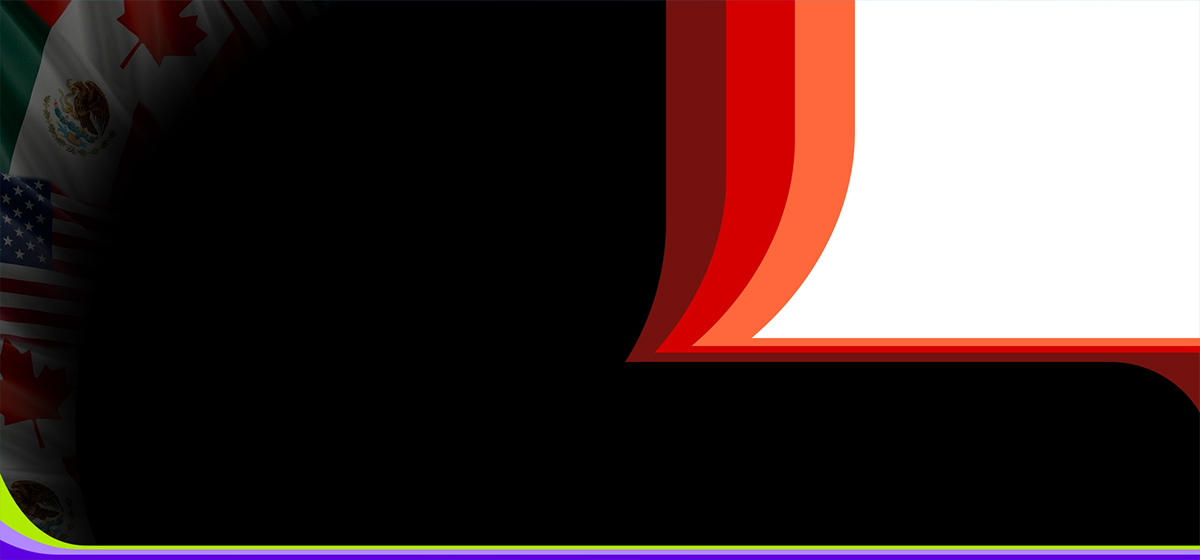
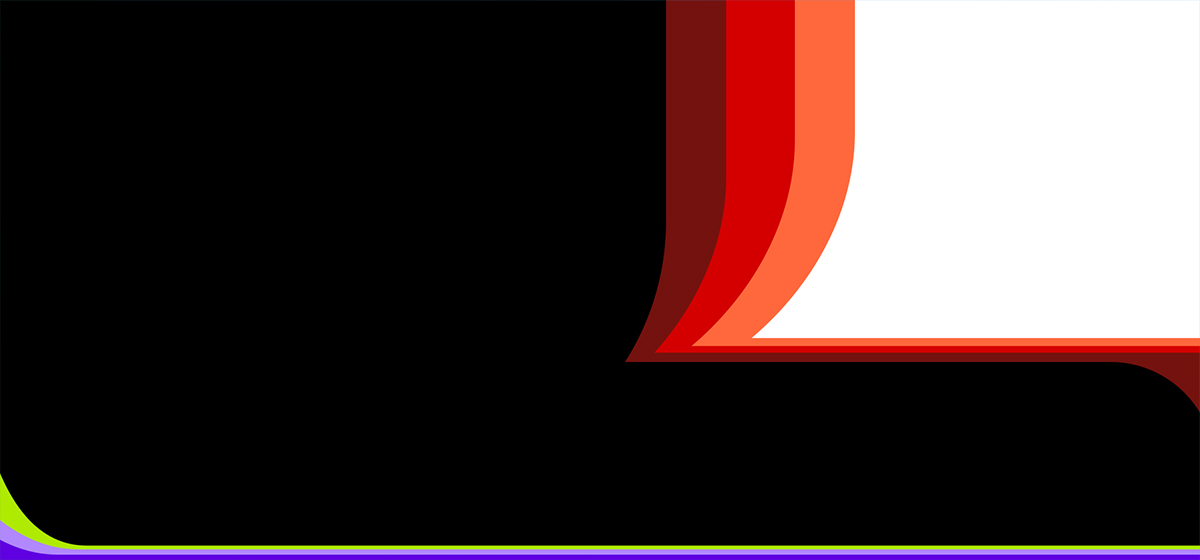
UI: подтабы ЧМ блоками, флаги отдельным слоем, сплэш без мяча
- ЧМ: подтабы упакованы в отдельные блоки (белые с чёрным текстом,
  активный — жёлтый), чтобы читались и на белой, и на чёрной части хедера
  при любой ширине устройства.
- Хедер: флаги хозяев вынесены отдельным слоем (banner-flags.png), жёстко
  прибиты к верхнему-левому углу, высота = высоте баннера (auto 100%).
  Основной арт header-banner.jpg обновлён (без флагов). Теперь при cover-
  обрезке на узких экранах флаги не пропадают.
- Splash: убран крутящийся мяч, осталось мерцающее 'Загрузка' + лого.

Changed region(s): [[0.0, 0.0, 0.2158, 0.9714]]

diff --git a/src/pages/WorldCup.jsx b/src/pages/WorldCup.jsx
@@ -51,23 +51,27 @@ export default function WorldCup({ initialSub = 'groups', onSubChange }) {
           </div>
           <div className="text-4xl mb-1">🌐</div>
         </div>
-        <div className="flex overflow-x-auto no-scrollbar px-2 mt-2" style={{ scrollbarWidth: 'none' }}>
-          {SUB_TABS.map((t) => (
-            <button
-              key={t.id}
-              onClick={() => handleSub(t.id)}
-              className="flex-shrink-0 px-4 py-3 text-[11px] font-bold uppercase tracking-wide relative whitespace-nowrap"
-              style={{ color: sub === t.id ? '#C9A800' : 'rgba(255,255,255,0.8)' }}
-            >
-              {t.label}
-              {sub === t.id && (
-                <span
-                  className="absolute bottom-0 left-1/2 -translate-x-1/2 h-0.5 rounded-t-full"
-                  style={{ width: '70%', background: '#C9A800' }}
-                />
-              )}
-            </button>
-          ))}
+        {/* Каждый подтаб — свой блок, чтобы читался и на белой, и на чёрной части
+            хедера. Активный — жёлтый с белым текстом, остальные — белые с чёрным. */}
+        <div className="flex overflow-x-auto no-scrollbar px-3 pt-2 pb-3 gap-2" style={{ scrollbarWidth: 'none' }}>
+          {SUB_TABS.map((t) => {
+            const active = sub === t.id
+            return (
+              <button
+                key={t.id}
+                onClick={() => handleSub(t.id)}
+                className="flex-shrink-0 px-3 py-2 rounded-full text-[11px] font-bold uppercase tracking-wide whitespace-nowrap"
+                style={{
+                  background: active ? '#C9A800' : '#FFFFFF',
+                  color: active ? '#FFFFFF' : '#111827',
+                  border: active ? 'none' : '1px solid rgba(0,0,0,0.10)',
+                  boxShadow: '0 1px 4px rgba(0,0,0,0.12)',
+                }}
+              >
+                {t.label}
+              </button>
+            )
+          })}
         </div>
       </div>
 

diff --git a/src/data.js b/src/data.js
@@ -13,17 +13,21 @@ export const TOURNAMENT = {
   motto: 'We Are 16',
 };
 
-// Фоновый баннер для шапок страниц. Новый арт — это готовая «рамка»:
-// слева чёрная зона (с вшитыми флагами хозяев), справа сверху белая карточка,
-// снизу чёрная полоса. Поэтому БЕЗ осветляющего оверлея — он убивал чёрный слева.
-// Заголовки рисуем белым (на чёрном слева), данные справа — чёрным (на белой карточке).
-// position: top center — якорим важную верхнюю полосу (флаги + белая карточка),
-// любой обрез уходит вниз, в чёрную полосу. Высоту шапок держим единой по образцу главной.
+// Фоновый баннер для шапок страниц — два слоя:
+//   1) banner-flags.png — флаги хозяев. Жёстко прибиты к ВЕРХНЕМУ-ЛЕВОМУ углу,
+//      высота = высоте баннера (size: auto 100% → ширина по пропорции). При cover-
+//      обрезке основного арта на узких экранах флаги НЕ пропадают: это отдельный
+//      слой слева. Меняется высота баннера → флаги повторяют её, оставаясь слева.
+//   2) header-banner.jpg — основной арт (без флагов): чёрная зона слева, разлом,
+//      белая карточка справа. cover + right top — белая карточка держится справа,
+//      обрез уходит влево (под флаги) и вниз.
+// В CSS первый слой рисуется ПОВЕРХ — поэтому флаги идут первыми.
+// Без осветляющего оверлея: заголовки белые (на чёрном), данные справа чёрные (на белом).
 export const HEADER_BANNER_STYLE = {
-  backgroundImage: `url('${import.meta.env.BASE_URL}header-banner.jpg')`,
-  backgroundSize: 'cover',
-  backgroundPosition: 'right top',
-  backgroundRepeat: 'no-repeat',
+  backgroundImage: `url('${import.meta.env.BASE_URL}banner-flags.png'), url('${import.meta.env.BASE_URL}header-banner.jpg')`,
+  backgroundSize: 'auto 100%, cover',
+  backgroundPosition: 'left top, right top',
+  backgroundRepeat: 'no-repeat, no-repeat',
 };
 
 // Календарь стадий турнира — для прогресс-бара на главной.

diff --git a/src/index.css b/src/index.css
@@ -159,16 +159,6 @@ body {
 .rank-other { background: rgba(0,0,0,0.07); }
 
 /* ── Splash / loading screen ─────────────────────────────────────────── */
-/* Мяч крутится вокруг своей оси (в плоскости экрана) — всегда полный, без мерцания */
-@keyframes spinBall {
-  from { transform: rotate(0deg); }
-  to   { transform: rotate(360deg); }
-}
-.splash-ball {
-  display: inline-block;
-  animation: spinBall 1.4s linear infinite;
-  will-change: transform;
-}
 .splash-screen {
   position: fixed;
   inset: 0;

diff --git a/src/components/Splash.jsx b/src/components/Splash.jsx
@@ -29,9 +29,7 @@ export default function Splash({ hiding }) {
         </div>
       )}
 
-      <span className="splash-ball" style={{ fontSize: 56, lineHeight: 1 }}>⚽</span>
-
-      <div className="splash-hint text-xs uppercase tracking-[0.25em]" style={{ color: 'rgba(255,255,255,0.7)' }}>
+      <div className="splash-hint text-sm uppercase tracking-[0.3em]" style={{ color: 'rgba(255,255,255,0.7)' }}>
         Загрузка
       </div>
     </div>